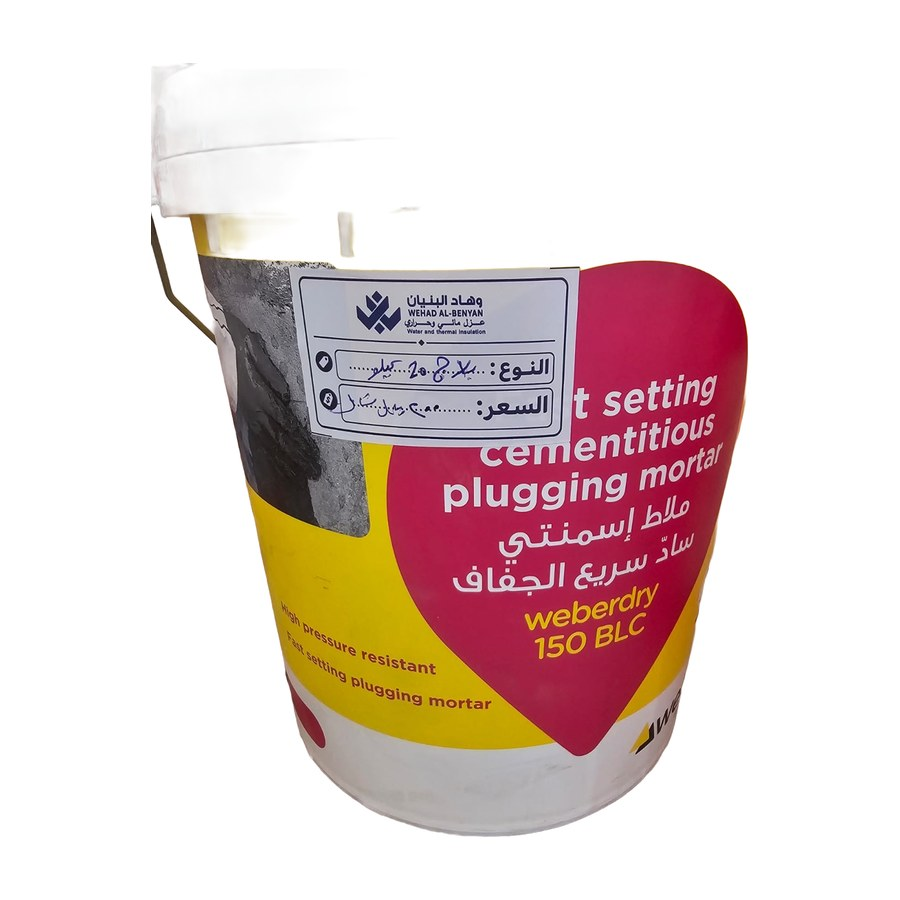
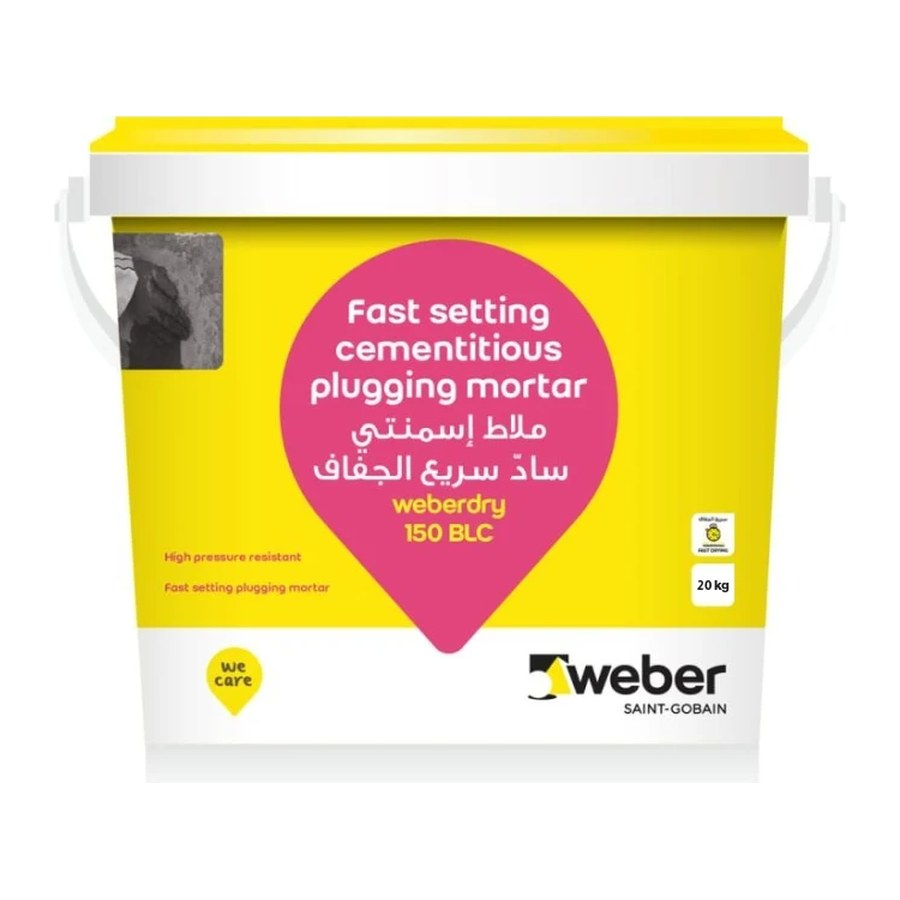
Store: official weberdry 150 BLC product image
Claude-Session: https://claude.ai/code/session_01L7aFpuZDN8bdeKYBYfcc1B

diff --git a/store/weberdry-150-blc/index.html b/store/weberdry-150-blc/index.html
@@ -13,7 +13,7 @@
 <link rel="preconnect" href="https://fonts.googleapis.com"><link rel="preconnect" href="https://fonts.gstatic.com" crossorigin>
 <link href="https://fonts.googleapis.com/css2?family=Noto+Kufi+Arabic:wght@600;700;800&family=Almarai:wght@400;700;800&display=swap" rel="stylesheet">
 <link rel="stylesheet" href="/store/assets/store.css?v=3">
-<meta property="og:image" content="https://www.wehadcoo.com/store/img/weberdry-150.jpg"><script type="application/ld+json">{"@context": "https://schema.org", "@type": "Product", "name": "ويبر دراي 150 BLC", "alternateName": "weberdry 150 BLC", "image": "https://www.wehadcoo.com/store/img/weberdry-150.jpg", "description": "إسمنت مائي سريع الشك يوقف تسربات المياه البسيطة والقوية فورًا وبشكل دائم. يتصلب في أقل من دقيقة ويتمدد قليلًا أثناء الشك فيسد الفتحة بإحكام، ويمكن استخدامه حتى تحت الماء ويقاوم ضغط المياه العالي.", "brand": {"@type": "Brand", "name": "Weber"}, "offers": {"@type": "Offer", "priceCurrency": "SAR", "price": 200, "availability": "https://schema.org/InStock", "url": "https://www.wehadcoo.com/store/weberdry-150-blc/", "seller": {"@type": "Organization", "name": "وهاد البنيان"}}}</script>
+<meta property="og:image" content="https://www.wehadcoo.com/store/img/weberdry-150.jpg?v=4"><script type="application/ld+json">{"@context": "https://schema.org", "@type": "Product", "name": "ويبر دراي 150 BLC", "alternateName": "weberdry 150 BLC", "image": "https://www.wehadcoo.com/store/img/weberdry-150.jpg?v=4", "description": "إسمنت مائي سريع الشك يوقف تسربات المياه البسيطة والقوية فورًا وبشكل دائم. يتصلب في أقل من دقيقة ويتمدد قليلًا أثناء الشك فيسد الفتحة بإحكام، ويمكن استخدامه حتى تحت الماء ويقاوم ضغط المياه العالي.", "brand": {"@type": "Brand", "name": "Weber"}, "offers": {"@type": "Offer", "priceCurrency": "SAR", "price": 200, "availability": "https://schema.org/InStock", "url": "https://www.wehadcoo.com/store/weberdry-150-blc/", "seller": {"@type": "Organization", "name": "وهاد البنيان"}}}</script>
 </head>
 <body>
 <a class="skip" href="#main">تخطَّ إلى المحتوى</a>
@@ -33,7 +33,7 @@
 <div class="wrap pd" data-product="weberdry-150-blc">
   <nav class="crumb" aria-label="مسار الصفحة"><a href="/">الرئيسية</a><span>/</span><a href="/store/">المتجر</a><span>/</span><a href="/store/#concrete">الخرسانة والقواعد</a></nav>
   <div class="pd-grid">
-    <div class="pd-img"><img src="/store/img/weberdry-150.jpg" alt="ويبر دراي 150 BLC" width="900" height="900"></div>
+    <div class="pd-img"><img src="/store/img/weberdry-150.jpg?v=4" alt="ويبر دراي 150 BLC" width="900" height="900"></div>
     <div class="pd-info">
       <span class="brand-t">Weber · ويبر</span>
       <h1>ويبر دراي 150 BLC</h1>

diff --git a/store/polybit-polycoat/index.html b/store/polybit-polycoat/index.html
@@ -56,7 +56,7 @@
     <p class="note">المعلومات مختصرة من النشرات الفنية للشركة المصنعة. للتطبيق الصحيح والكميات المناسبة لمساحتك تواصل مع فريقنا الفني.</p>
   </div>
   <section class="rel"><h2>منتجات قد تحتاجها</h2><div class="grid sm"><article class="card" data-cat="concrete" data-q="ويبر دراي 150 BLC weberdry 150 BLC ملاط إسمنتي سادّ سريع الجفاف Weber · ويبر">
-  <a href="/store/weberdry-150-blc/" class="card-img"><img src="/store/img/weberdry-150.jpg" alt="ويبر دراي 150 BLC" loading="lazy" width="600" height="600"></a>
+  <a href="/store/weberdry-150-blc/" class="card-img"><img src="/store/img/weberdry-150.jpg?v=4" alt="ويبر دراي 150 BLC" loading="lazy" width="600" height="600"></a>
   <div class="card-body">
     <span class="brand-t">Weber · ويبر</span>
     <h3><a href="/store/weberdry-150-blc/">ويبر دراي 150 BLC</a></h3>

diff --git a/store/pvc-waterstop/index.html b/store/pvc-waterstop/index.html
@@ -56,7 +56,7 @@
     <p class="note">المعلومات مختصرة من النشرات الفنية للشركة المصنعة. للتطبيق الصحيح والكميات المناسبة لمساحتك تواصل مع فريقنا الفني.</p>
   </div>
   <section class="rel"><h2>منتجات قد تحتاجها</h2><div class="grid sm"><article class="card" data-cat="concrete" data-q="ويبر دراي 150 BLC weberdry 150 BLC ملاط إسمنتي سادّ سريع الجفاف Weber · ويبر">
-  <a href="/store/weberdry-150-blc/" class="card-img"><img src="/store/img/weberdry-150.jpg" alt="ويبر دراي 150 BLC" loading="lazy" width="600" height="600"></a>
+  <a href="/store/weberdry-150-blc/" class="card-img"><img src="/store/img/weberdry-150.jpg?v=4" alt="ويبر دراي 150 BLC" loading="lazy" width="600" height="600"></a>
   <div class="card-body">
     <span class="brand-t">Weber · ويبر</span>
     <h3><a href="/store/weberdry-150-blc/">ويبر دراي 150 BLC</a></h3>

diff --git a/store/zat-pp-fibers/index.html b/store/zat-pp-fibers/index.html
@@ -56,7 +56,7 @@
     <p class="note">المعلومات مختصرة من النشرات الفنية للشركة المصنعة. للتطبيق الصحيح والكميات المناسبة لمساحتك تواصل مع فريقنا الفني.</p>
   </div>
   <section class="rel"><h2>منتجات قد تحتاجها</h2><div class="grid sm"><article class="card" data-cat="concrete" data-q="ويبر دراي 150 BLC weberdry 150 BLC ملاط إسمنتي سادّ سريع الجفاف Weber · ويبر">
-  <a href="/store/weberdry-150-blc/" class="card-img"><img src="/store/img/weberdry-150.jpg" alt="ويبر دراي 150 BLC" loading="lazy" width="600" height="600"></a>
+  <a href="/store/weberdry-150-blc/" class="card-img"><img src="/store/img/weberdry-150.jpg?v=4" alt="ويبر دراي 150 BLC" loading="lazy" width="600" height="600"></a>
   <div class="card-body">
     <span class="brand-t">Weber · ويبر</span>
     <h3><a href="/store/weberdry-150-blc/">ويبر دراي 150 BLC</a></h3>

diff --git a/store/index.html b/store/index.html
@@ -45,7 +45,7 @@
   </div>
   <div class="grid" data-grid>
 <article class="card" data-cat="concrete" data-q="ويبر دراي 150 BLC weberdry 150 BLC ملاط إسمنتي سادّ سريع الجفاف Weber · ويبر">
-  <a href="/store/weberdry-150-blc/" class="card-img"><img src="/store/img/weberdry-150.jpg" alt="ويبر دراي 150 BLC" loading="lazy" width="600" height="600"></a>
+  <a href="/store/weberdry-150-blc/" class="card-img"><img src="/store/img/weberdry-150.jpg?v=4" alt="ويبر دراي 150 BLC" loading="lazy" width="600" height="600"></a>
   <div class="card-body">
     <span class="brand-t">Weber · ويبر</span>
     <h3><a href="/store/weberdry-150-blc/">ويبر دراي 150 BLC</a></h3>

diff --git a/store/arkaz-eneseal-pu/index.html b/store/arkaz-eneseal-pu/index.html
@@ -89,7 +89,7 @@
     </div>
   </div>
 </article><article class="card" data-cat="concrete" data-q="ويبر دراي 150 BLC weberdry 150 BLC ملاط إسمنتي سادّ سريع الجفاف Weber · ويبر">
-  <a href="/store/weberdry-150-blc/" class="card-img"><img src="/store/img/weberdry-150.jpg" alt="ويبر دراي 150 BLC" loading="lazy" width="600" height="600"></a>
+  <a href="/store/weberdry-150-blc/" class="card-img"><img src="/store/img/weberdry-150.jpg?v=4" alt="ويبر دراي 150 BLC" loading="lazy" width="600" height="600"></a>
   <div class="card-body">
     <span class="brand-t">Weber · ويبر</span>
     <h3><a href="/store/weberdry-150-blc/">ويبر دراي 150 BLC</a></h3>

diff --git a/store/dcp-aquaguard-600/index.html b/store/dcp-aquaguard-600/index.html
@@ -89,7 +89,7 @@
     </div>
   </div>
 </article><article class="card" data-cat="concrete" data-q="ويبر دراي 150 BLC weberdry 150 BLC ملاط إسمنتي سادّ سريع الجفاف Weber · ويبر">
-  <a href="/store/weberdry-150-blc/" class="card-img"><img src="/store/img/weberdry-150.jpg" alt="ويبر دراي 150 BLC" loading="lazy" width="600" height="600"></a>
+  <a href="/store/weberdry-150-blc/" class="card-img"><img src="/store/img/weberdry-150.jpg?v=4" alt="ويبر دراي 150 BLC" loading="lazy" width="600" height="600"></a>
   <div class="card-body">
     <span class="brand-t">Weber · ويبر</span>
     <h3><a href="/store/weberdry-150-blc/">ويبر دراي 150 BLC</a></h3>

diff --git a/store/dcp-aquathane-r100/index.html b/store/dcp-aquathane-r100/index.html
@@ -89,7 +89,7 @@
     </div>
   </div>
 </article><article class="card" data-cat="concrete" data-q="ويبر دراي 150 BLC weberdry 150 BLC ملاط إسمنتي سادّ سريع الجفاف Weber · ويبر">
-  <a href="/store/weberdry-150-blc/" class="card-img"><img src="/store/img/weberdry-150.jpg" alt="ويبر دراي 150 BLC" loading="lazy" width="600" height="600"></a>
+  <a href="/store/weberdry-150-blc/" class="card-img"><img src="/store/img/weberdry-150.jpg?v=4" alt="ويبر دراي 150 BLC" loading="lazy" width="600" height="600"></a>
   <div class="card-body">
     <span class="brand-t">Weber · ويبر</span>
     <h3><a href="/store/weberdry-150-blc/">ويبر دراي 150 BLC</a></h3>

diff --git a/store/dcp-setseal-c/index.html b/store/dcp-setseal-c/index.html
@@ -78,7 +78,7 @@
     </div>
   </div>
 </article><article class="card" data-cat="concrete" data-q="ويبر دراي 150 BLC weberdry 150 BLC ملاط إسمنتي سادّ سريع الجفاف Weber · ويبر">
-  <a href="/store/weberdry-150-blc/" class="card-img"><img src="/store/img/weberdry-150.jpg" alt="ويبر دراي 150 BLC" loading="lazy" width="600" height="600"></a>
+  <a href="/store/weberdry-150-blc/" class="card-img"><img src="/store/img/weberdry-150.jpg?v=4" alt="ويبر دراي 150 BLC" loading="lazy" width="600" height="600"></a>
   <div class="card-body">
     <span class="brand-t">Weber · ويبر</span>
     <h3><a href="/store/weberdry-150-blc/">ويبر دراي 150 BLC</a></h3>

diff --git a/store/delmon-durashield/index.html b/store/delmon-durashield/index.html
@@ -89,7 +89,7 @@
     </div>
   </div>
 </article><article class="card" data-cat="concrete" data-q="ويبر دراي 150 BLC weberdry 150 BLC ملاط إسمنتي سادّ سريع الجفاف Weber · ويبر">
-  <a href="/store/weberdry-150-blc/" class="card-img"><img src="/store/img/weberdry-150.jpg" alt="ويبر دراي 150 BLC" loading="lazy" width="600" height="600"></a>
+  <a href="/store/weberdry-150-blc/" class="card-img"><img src="/store/img/weberdry-150.jpg?v=4" alt="ويبر دراي 150 BLC" loading="lazy" width="600" height="600"></a>
   <div class="card-body">
     <span class="brand-t">Weber · ويبر</span>
     <h3><a href="/store/weberdry-150-blc/">ويبر دراي 150 BLC</a></h3>

diff --git a/store/delmon-lastroof/index.html b/store/delmon-lastroof/index.html
@@ -78,7 +78,7 @@
     </div>
   </div>
 </article><article class="card" data-cat="concrete" data-q="ويبر دراي 150 BLC weberdry 150 BLC ملاط إسمنتي سادّ سريع الجفاف Weber · ويبر">
-  <a href="/store/weberdry-150-blc/" class="card-img"><img src="/store/img/weberdry-150.jpg" alt="ويبر دراي 150 BLC" loading="lazy" width="600" height="600"></a>
+  <a href="/store/weberdry-150-blc/" class="card-img"><img src="/store/img/weberdry-150.jpg?v=4" alt="ويبر دراي 150 BLC" loading="lazy" width="600" height="600"></a>
   <div class="card-body">
     <span class="brand-t">Weber · ويبر</span>
     <h3><a href="/store/weberdry-150-blc/">ويبر دراي 150 BLC</a></h3>

diff --git a/store/expansion-joint-foam/index.html b/store/expansion-joint-foam/index.html
@@ -89,7 +89,7 @@
     </div>
   </div>
 </article><article class="card" data-cat="concrete" data-q="ويبر دراي 150 BLC weberdry 150 BLC ملاط إسمنتي سادّ سريع الجفاف Weber · ويبر">
-  <a href="/store/weberdry-150-blc/" class="card-img"><img src="/store/img/weberdry-150.jpg" alt="ويبر دراي 150 BLC" loading="lazy" width="600" height="600"></a>
+  <a href="/store/weberdry-150-blc/" class="card-img"><img src="/store/img/weberdry-150.jpg?v=4" alt="ويبر دراي 150 BLC" loading="lazy" width="600" height="600"></a>
   <div class="card-body">
     <span class="brand-t">Weber · ويبر</span>
     <h3><a href="/store/weberdry-150-blc/">ويبر دراي 150 BLC</a></h3>
